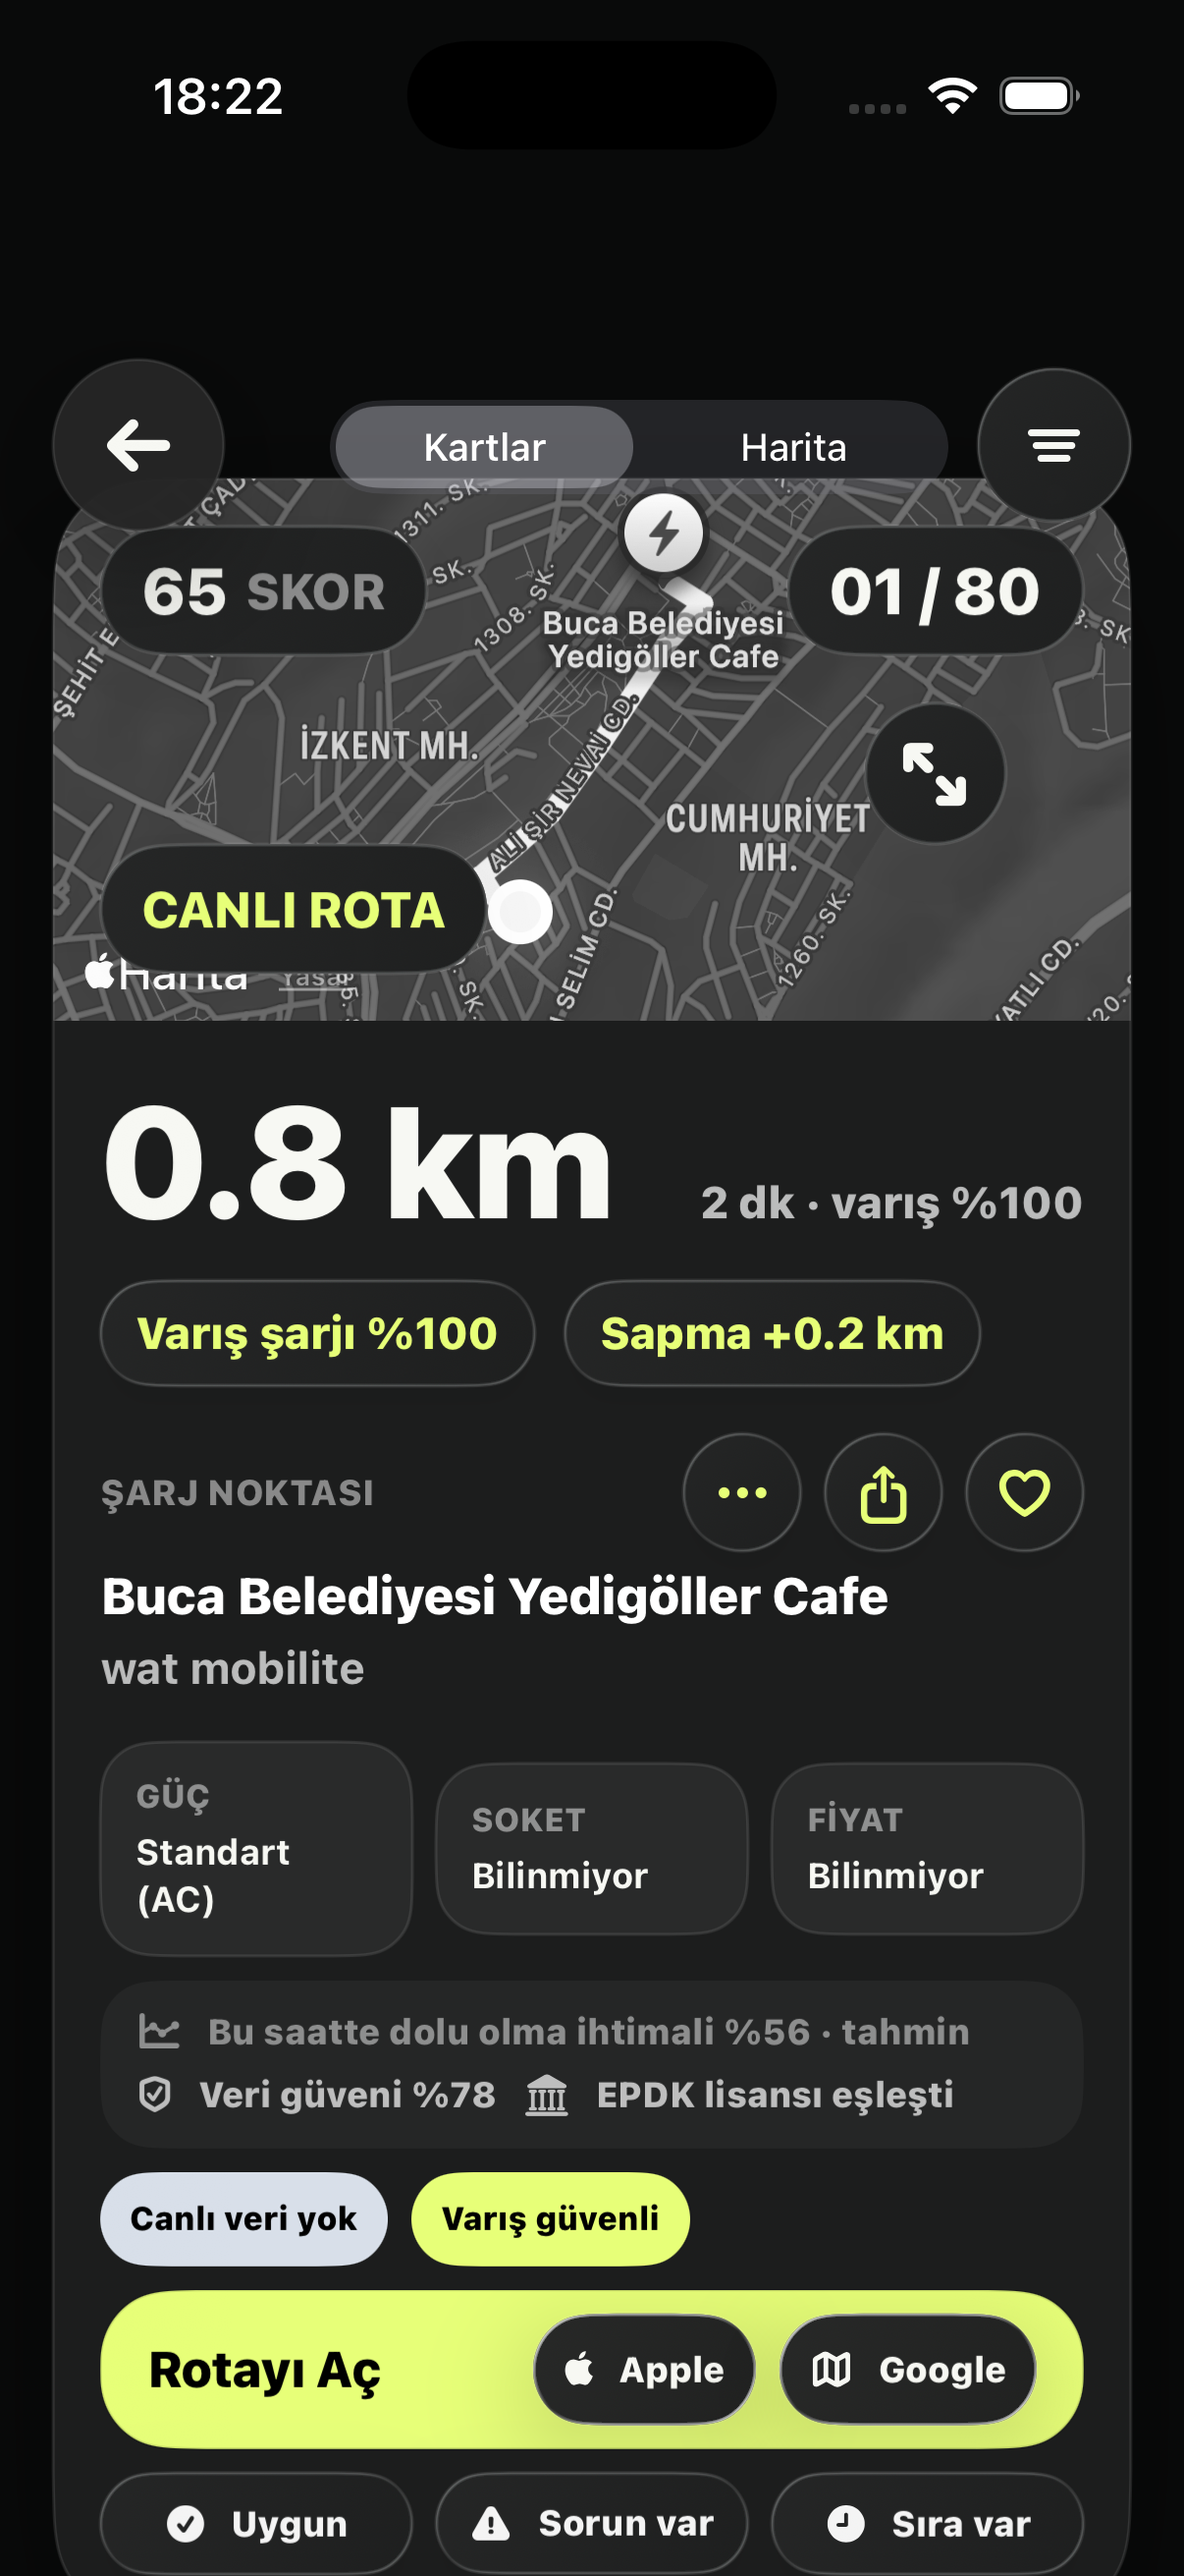
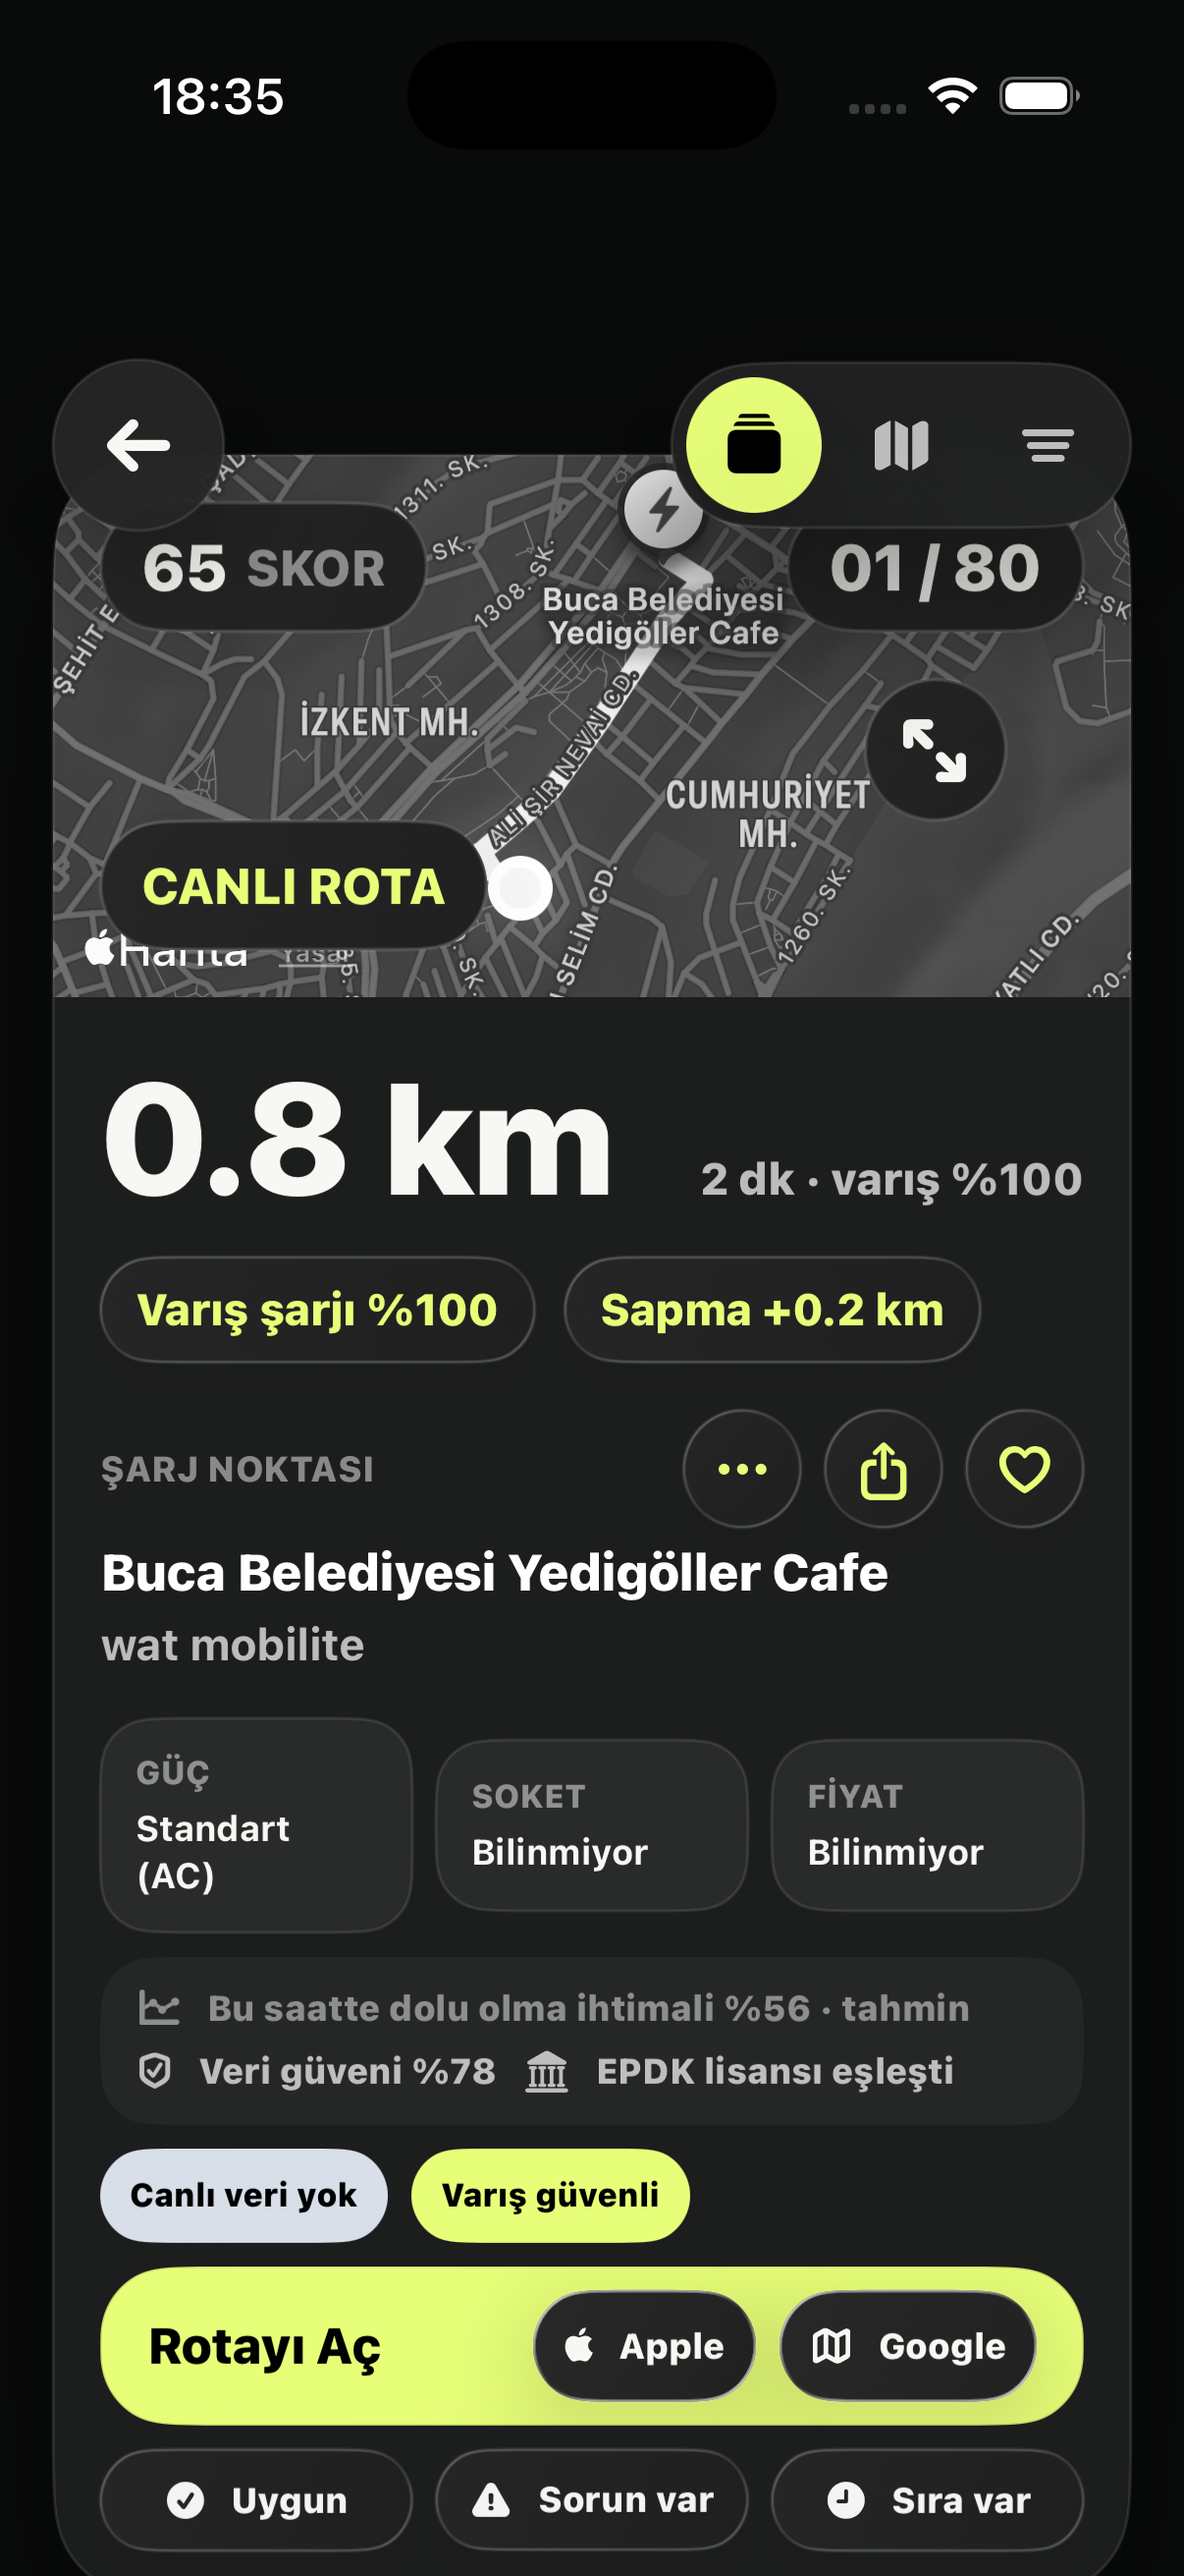
feat: refine home and route layouts

diff --git a/SarjBul/Features/Stations/StationFeedView.swift b/SarjBul/Features/Stations/StationFeedView.swift
@@ -16,54 +16,7 @@ struct StationFeedView: View {
             ZStack(alignment: .topLeading) {
                 SBScreenBackground()
                 content
-
-                HStack(spacing: 10) {
-                    SBBackButton(accessibilityLabel: settings.t("nav.back")) {
-                        navigation.tab = .home
-                    }
-
-                    Spacer()
-
-                    if !search.routeCandidates.isEmpty {
-                        if search.tripPlan != nil {
-                            Button {
-                                Haptic.tap()
-                                tripPlanPresented = true
-                            } label: {
-                                Image(systemName: "bolt.car.fill")
-                                    .font(.headline.weight(.heavy))
-                                    .foregroundStyle(SBColor.ink)
-                                    .frame(width: 52, height: 52)
-                                    .sbPremiumGlass(radius: 26, interactive: true)
-                            }
-                            .buttonStyle(SBPremiumButtonStyle())
-                            .accessibilityLabel(settings.t("planner.title"))
-                        }
-
-                        Picker(settings.t("feed.view_mode"), selection: $mode) {
-                            Label(settings.t("feed.cards"), systemImage: "rectangle.stack").tag(FeedMode.cards)
-                            Label(settings.t("feed.map"), systemImage: "map").tag(FeedMode.map)
-                        }
-                        .pickerStyle(.segmented)
-                        .tint(SBColor.signal)
-                        .frame(maxWidth: 210)
-
-                        Button {
-                            Haptic.tap()
-                            filterSheetPresented = true
-                        } label: {
-                            Image(systemName: "line.3.horizontal.decrease")
-                                .font(.headline.weight(.heavy))
-                                .foregroundStyle(SBColor.ink)
-                                .frame(width: 52, height: 52)
-                                .sbPremiumGlass(radius: 26, interactive: true)
-                        }
-                        .buttonStyle(SBPremiumButtonStyle())
-                        .accessibilityLabel(settings.t("feed.filters"))
-                    }
-                }
-                .padding(.horizontal, 18)
-                .padding(.top, 6)
+                feedToolbar
             }
             .navigationDestination(for: AppRoute.self, destination: routeDestination)
         }
@@ -87,6 +40,79 @@ struct StationFeedView: View {
                     .environment(settings)
             }
         }
+    }
+
+    private var feedToolbar: some View {
+        HStack(spacing: 12) {
+            SBBackButton(accessibilityLabel: settings.t("nav.back")) {
+                navigation.tab = .home
+            }
+
+            Spacer(minLength: 8)
+
+            if !search.routeCandidates.isEmpty {
+                HStack(spacing: 4) {
+                    if search.tripPlan != nil {
+                        toolbarButton(
+                            icon: "bolt.car.fill",
+                            accessibilityLabel: settings.t("planner.title")
+                        ) {
+                            tripPlanPresented = true
+                        }
+                    }
+
+                    modeButton(.cards, icon: "rectangle.stack.fill", label: settings.t("feed.cards"))
+                    modeButton(.map, icon: "map.fill", label: settings.t("feed.map"))
+
+                    toolbarButton(
+                        icon: "line.3.horizontal.decrease",
+                        accessibilityLabel: settings.t("feed.filters")
+                    ) {
+                        filterSheetPresented = true
+                    }
+                }
+                .padding(5)
+                .background(SBColor.charcoal.opacity(0.98), in: Capsule())
+                .overlay(Capsule().stroke(SBColor.line, lineWidth: 1))
+                .sbCardShadow()
+            }
+        }
+        .padding(.horizontal, 18)
+        .padding(.top, 6)
+    }
+
+    private func modeButton(_ targetMode: FeedMode, icon: String, label: String) -> some View {
+        Button {
+            Haptic.tap()
+            mode = targetMode
+        } label: {
+            Image(systemName: icon)
+                .font(.headline.weight(.heavy))
+                .foregroundStyle(mode == targetMode ? SBColor.onSignal : SBColor.textSoft)
+                .frame(width: 46, height: 46)
+                .background(mode == targetMode ? SBColor.signal : .clear, in: Circle())
+        }
+        .buttonStyle(SBPremiumButtonStyle())
+        .accessibilityLabel(label)
+        .accessibilityAddTraits(mode == targetMode ? .isSelected : [])
+    }
+
+    private func toolbarButton(
+        icon: String,
+        accessibilityLabel: String,
+        action: @escaping () -> Void
+    ) -> some View {
+        Button {
+            Haptic.tap()
+            action()
+        } label: {
+            Image(systemName: icon)
+                .font(.headline.weight(.heavy))
+                .foregroundStyle(SBColor.textSoft)
+                .frame(width: 46, height: 46)
+        }
+        .buttonStyle(SBPremiumButtonStyle())
+        .accessibilityLabel(accessibilityLabel)
     }
 
     @ViewBuilder
@@ -153,7 +179,7 @@ struct StationFeedView: View {
                     if mode == .cards {
                         ScrollView {
                             LazyVStack(spacing: 18) {
-                                Color.clear.frame(height: 30)
+                                Color.clear.frame(height: 22)
                                 ForEach(Array(candidates.enumerated()), id: \.element.id) { index, candidate in
                                     StationCard(candidate: candidate, rank: index + 1, total: candidates.count)
                                         .frame(maxWidth: 680)

diff --git a/SarjBul/Features/Home/HomeView.swift b/SarjBul/Features/Home/HomeView.swift
@@ -78,6 +78,13 @@ struct HomeView: View {
             preferenceButton(.fastest, icon: "bolt.fill")
             preferenceButton(.economical, icon: "fuelpump")
         }
+        .padding(6)
+        .background(SBColor.charcoal, in: RoundedRectangle(cornerRadius: 28, style: .continuous))
+        .overlay(
+            RoundedRectangle(cornerRadius: 28, style: .continuous)
+                .stroke(SBColor.line, lineWidth: 1)
+        )
+        .sbCardShadow()
         .padding(.leading, 72)
         .padding(.top, 4)
     }
@@ -102,18 +109,26 @@ struct HomeView: View {
     }
 
     private var journeyInputs: some View {
-        ViewThatFits(in: .horizontal) {
-            HStack(spacing: 12) {
-                originJourneyButton
-                destinationJourneyButton
+        VStack(spacing: 0) {
+            originJourneyButton
+            HStack(spacing: 10) {
+                Circle()
+                    .fill(SBColor.signal)
+                    .frame(width: 6, height: 6)
+                Rectangle()
+                    .fill(SBColor.line)
+                    .frame(height: 1)
             }
-
-            VStack(spacing: 10) {
-                originJourneyButton
-                destinationJourneyButton
-            }
+            .padding(.leading, 16)
+            destinationJourneyButton
         }
-        .padding(.leading, 0)
+        .padding(8)
+        .background(SBColor.surfaceSolid, in: RoundedRectangle(cornerRadius: SBRadius.xl, style: .continuous))
+        .overlay(
+            RoundedRectangle(cornerRadius: SBRadius.xl, style: .continuous)
+                .stroke(SBColor.line, lineWidth: 1)
+        )
+        .sbSoftShadow()
     }
 
     private var originJourneyButton: some View {
@@ -180,8 +195,8 @@ struct HomeView: View {
             }
             .padding(12)
             .frame(maxWidth: .infinity)
-            .frame(height: 68)
-            .sbPremiumGlass(radius: SBRadius.lg, interactive: true)
+            .frame(height: 72)
+            .contentShape(RoundedRectangle(cornerRadius: SBRadius.lg, style: .continuous))
         }
         .buttonStyle(SBPremiumButtonStyle())
     }
@@ -244,7 +259,7 @@ struct HomeView: View {
         VStack(alignment: .leading, spacing: 12) {
             Text(settings.t("catalog.kicker"))
                 .font(.headline.weight(.heavy))
-                .foregroundStyle(SBColor.primaryDeep)
+                .foregroundStyle(SBColor.signal)
                 .textCase(.uppercase)
                 .padding(.horizontal, 4)
 
@@ -516,15 +531,13 @@ private struct QuickActionStyle: ButtonStyle {
             .font(.subheadline.weight(.bold))
             .foregroundStyle(active ? SBColor.onSignal : SBColor.textSoft)
             .frame(maxWidth: .infinity)
-            .frame(height: 62)
-            .background(active ? SBColor.signal : SBColor.glassStrong.opacity(0.72))
-            .clipShape(RoundedRectangle(cornerRadius: 22, style: .continuous))
-            .sbPremiumGlass(radius: 22, interactive: true)
+            .frame(height: 56)
+            .background(active ? SBColor.signal : .clear)
+            .clipShape(RoundedRectangle(cornerRadius: 20, style: .continuous))
             .overlay(
-                RoundedRectangle(cornerRadius: 22, style: .continuous)
-                    .stroke(active ? .black.opacity(0.12) : SBColor.line, lineWidth: 1)
+                RoundedRectangle(cornerRadius: 20, style: .continuous)
+                    .stroke(active ? .black.opacity(0.12) : .clear, lineWidth: 1)
             )
-            .sbSoftShadow()
             .scaleEffect(configuration.isPressed ? 0.97 : 1)
             .animation(.spring(response: 0.3, dampingFraction: 0.7), value: configuration.isPressed)
     }
